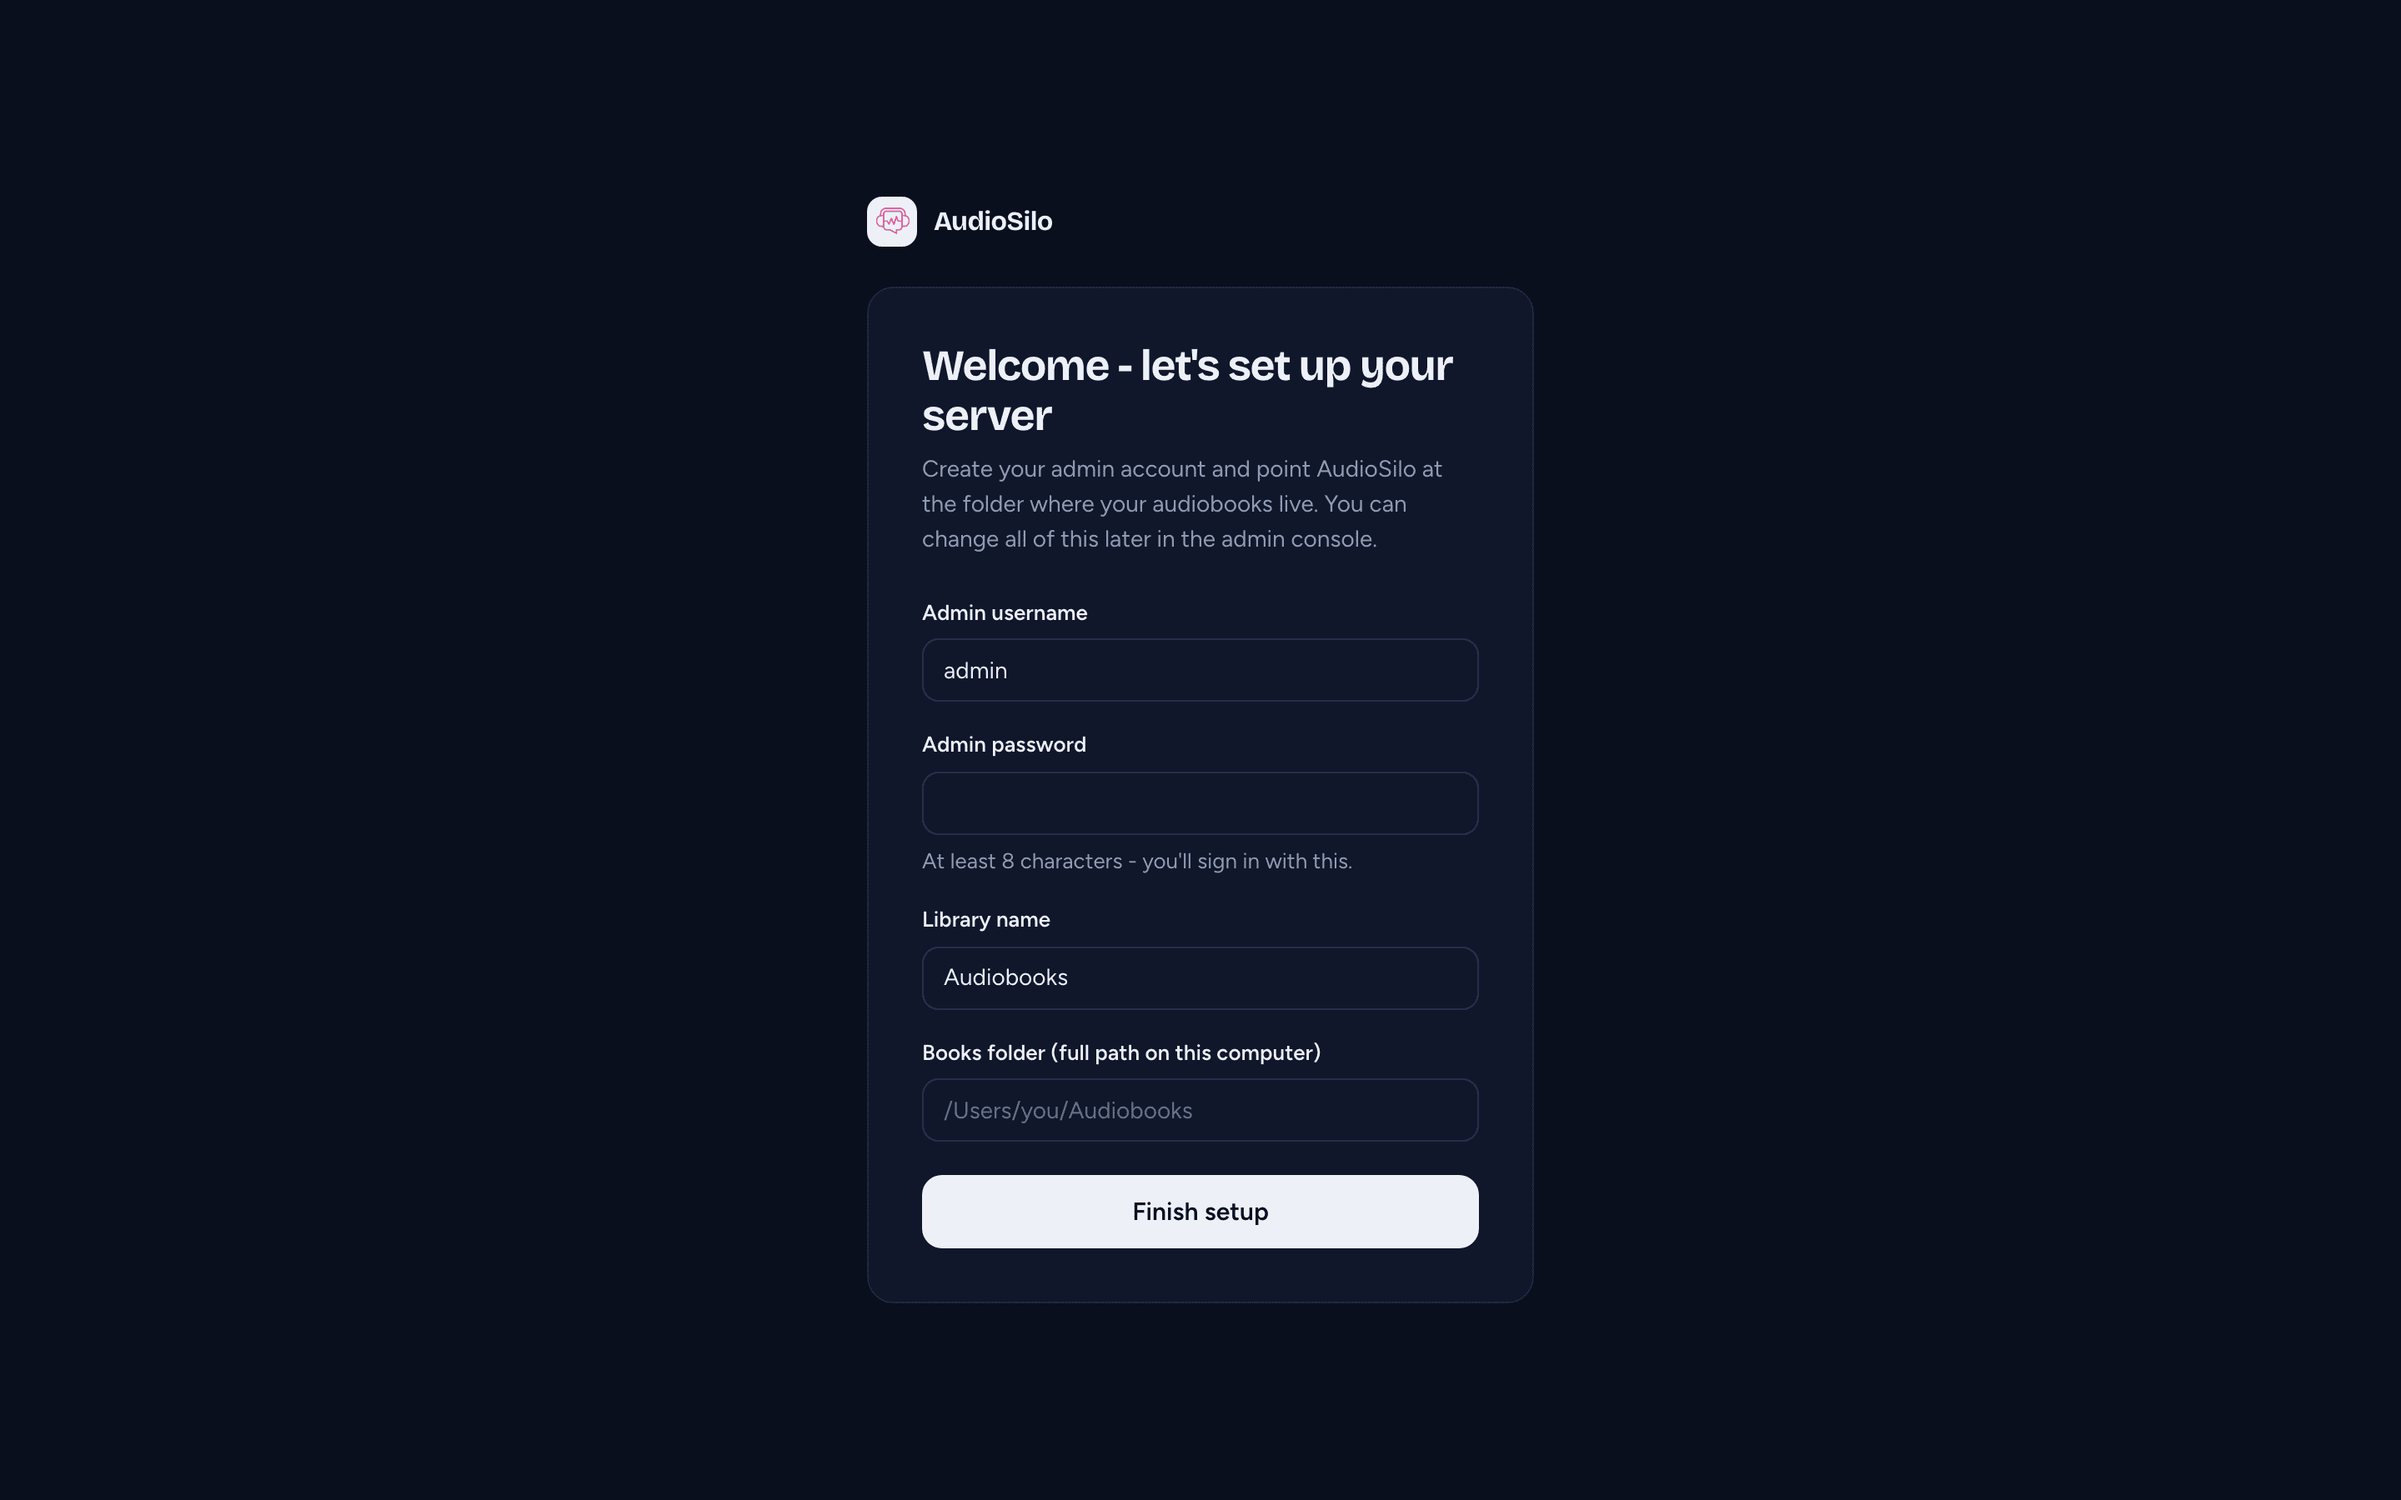
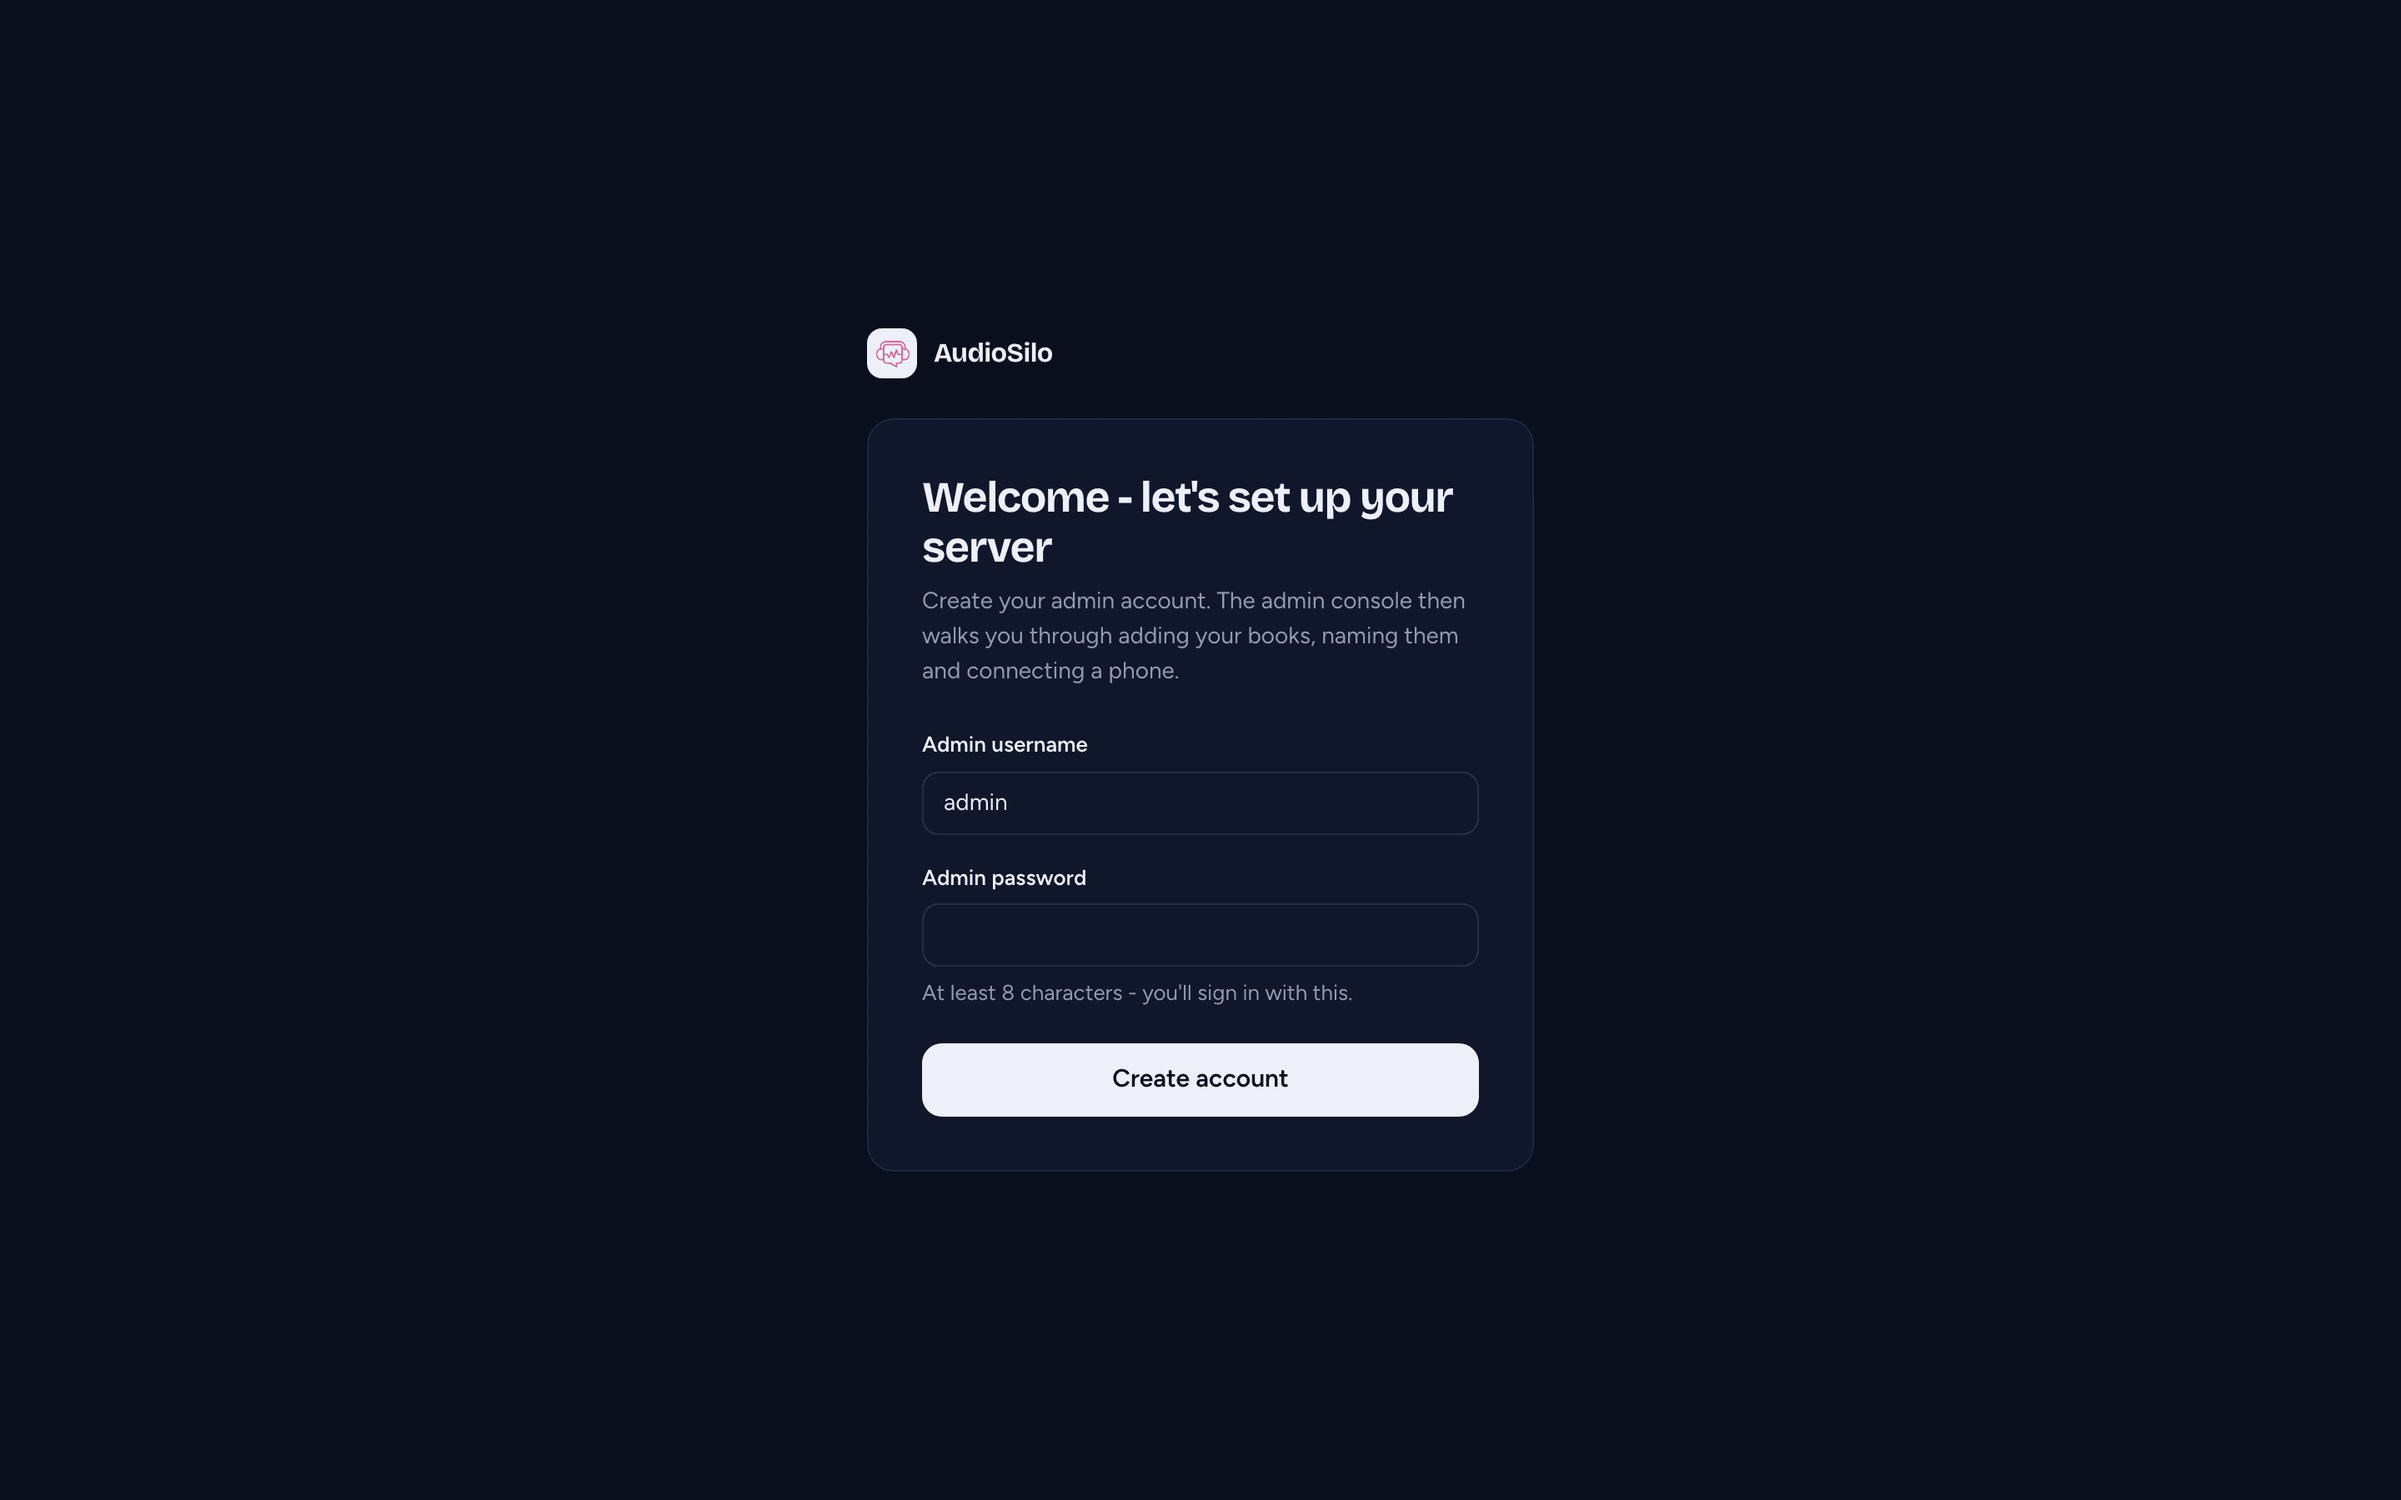
Screenshots: the first-run setup flow, step by step
capture-setup.mjs drives the --setup server: the account page, its hand-over,
then the console's eight setup steps and the Overview's Finish setting up card,
on a generated books folder whose tags and folder names disagree.
capture-admin.mjs marks its servers set up so the flow never takes its shots.

diff --git a/screenshots/README.md b/screenshots/README.md
@@ -17,8 +17,8 @@ npm install && npx playwright install chromium   # first time only
 `run.sh` builds the sibling `audiosilo-server`, seeds a small public-domain
 LibriVox library (cached in `.cache/library`; `MAX_FILES=3` chapter files per
 book keeps it ~100 MB), starts a demo-mode server on `:8790` serving the
-frontend's web export (plus a `--setup` instance on `:8791` for the wizard
-shot), builds the `audiosilo-meta` data artifact (composed with
+frontend's web export (plus a `--setup` instance on `:8791` for the first-run
+setup shots), builds the `audiosilo-meta` data artifact (composed with
 `audiosilo-meta-community`) + site and starts a `metaserve` on `:8795` for the
 meta-site shots, then runs the Playwright captures and backfills placeholders.
 `SKIP_META=1` skips the meta stack (for a web/admin-only run).
@@ -36,6 +36,34 @@ that use the exact English labels from the server's
 `admin-ui/src/i18n/locales/en.json`, so a renamed button or field there needs
 the same rename in the script (a failed step is logged and its shot falls back
 to the previous image or a placeholder).
+
+The first-run setup shots (`server/setup-wizard*.png` and `setup/*.png`)
+come from `capture-setup.mjs`, which `run.sh` runs after `capture-admin.mjs`
+against the `--setup` instance (a fresh data dir, no admin yet). It opens the
+wizard's one-time link, shoots the account form, creates the admin, shoots the
+"Your account is ready" hand-over, follows **Continue setup** into the console
+and signs in, where the console sends a server that hasn't finished setting up
+to its "Set up your server" flow. It then runs all eight steps through their
+real UI, a shot per step, and ends on the Overview's **Finish setting up**
+card. The books folder it adds is built fresh under `.cache/setup/Audiobooks`
+(`SETUP_BOOKS` overrides): four tiny books of generated silence (**ffmpeg** on
+PATH) in `Author / Series / N - Title` folders whose tags are poor or missing,
+so the naming step shows tags and folders disagreeing and suggests the
+folders. The browser reaches that server as `audiosilo.local` (`SETUP_HOST`;
+mapped to 127.0.0.1 inside Chromium only), so the address step treats it as a
+home-network address and offers it as the home address. The Audiobookshelf
+step is continued without opening the import and the Bridge step ends with
+**Skip and finish**, which leaves the card two skipped steps to list. A
+`--setup` server's wizard closes once its admin exists, so the script runs
+once per server: `run.sh` starts it on a fresh data dir every run. On a macOS
+host the folder step shows no mounted-folder suggestions (they are read on
+Linux only).
+
+Because a fresh server sends its admin to that flow on the first console visit
+of every browser session, `capture-admin.mjs` marks the demo server (and the
+mirror-mode one) set up (`PUT /admin/setup`, finished and dismissed) before it
+opens a browser, so its shots never land on the flow and the Overview shows no
+setup card.
 
 Two admin shots depend on the server's community metadata lookup, which the
 demo server leaves at its default (`https://meta.audiosilo.app`, so it needs
